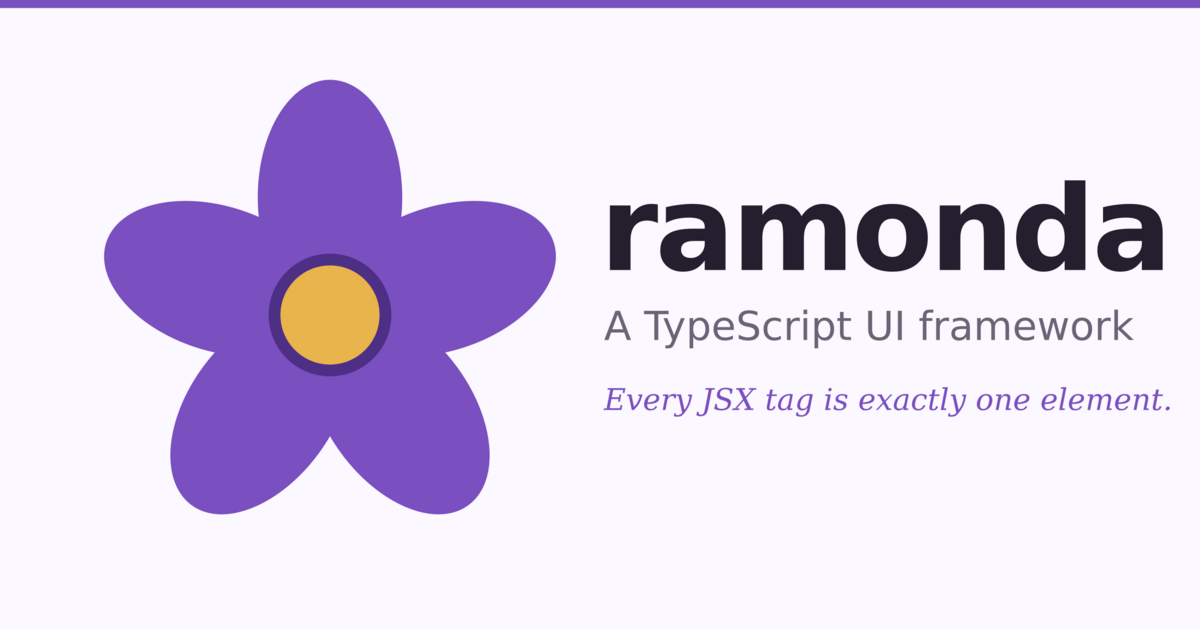
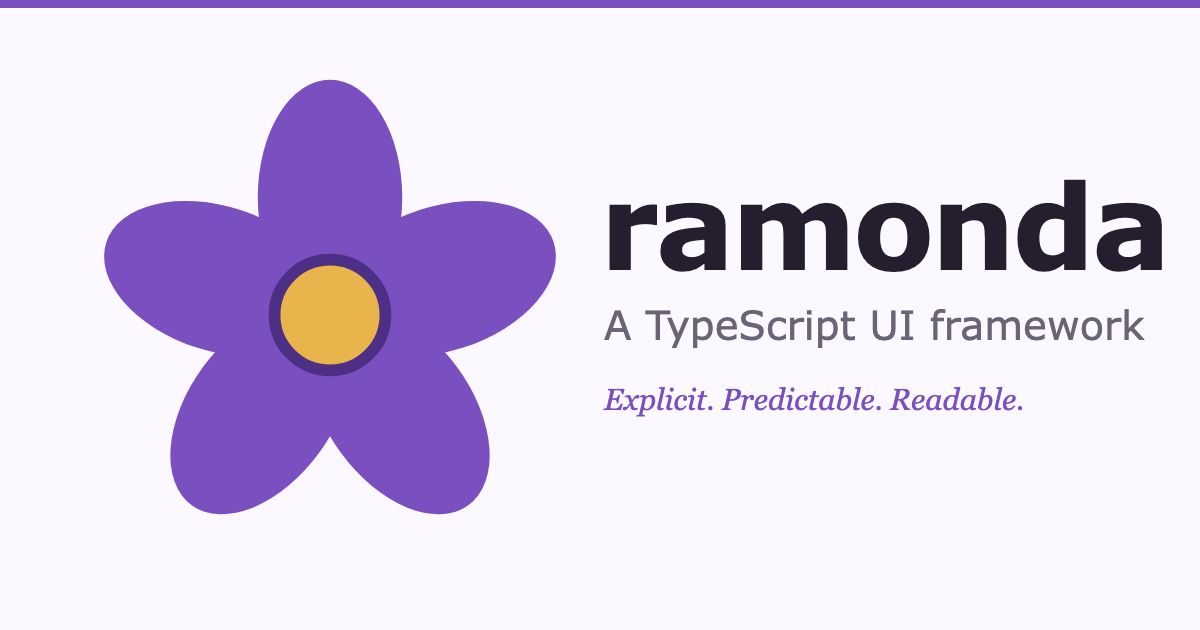
docs: the social card, and every sentence still arguing from the retired rule
The card first, because it is the one nothing could have caught. `og.png` is what
`og:image` and `twitter:image` point at on all 78 pages, and it said **Every JSX
tag is exactly one element** — the retired rule, as the preview on every shared
link. An image is not text anybody greps, and the tagline was written in exactly
one place.

It now reads `Explicit. Predictable. Readable.`, which with the wordmark and the
subheading above it is the site's own description without saying "UI framework"
twice. Two gates so it cannot drift again:

  build-theme.mjs   the card's sentence must equal `DESCRIPTION` in entry-server.tsx
  build-og-png.mjs  og.png must have been rendered from the current og.svg

The second is new, and so is the png renderer behind it — Chromium through
`@playwright/test`, which this repo already has and whose browser is already
downloaded. It stamps the svg's hash beside the png rather than diffing an image;
that answers "was this made from this", which is the question that went wrong.
Both planted and both caught.

**And then the sentences.** Sixteen places still argued from the rule, across four
published packages and the docs. One reached users: the fragment error refused
`<>…</>` because it `would make one tag produce several elements`, which is now
something a component does routinely. Each was rewritten to the reason that
survives rather than deleted — a fragment and a function have no state, no
[…]

diff --git a/packages/core/src/vdom/h.ts b/packages/core/src/vdom/h.ts
@@ -234,17 +234,18 @@ function regionOwner(index: number, originId: number): string {
 
 /**
  * Builds a vnode from a JSX tag. Exactly two kinds belong there: an intrinsic
- * tag, and a class component — each of which becomes exactly ONE element. That
- * one-to-one rule is what makes a Ramonda tree readable: the JSX is the DOM.
+ * tag, which is one element, and a class component, which renders whatever its
+ * `render()` returns — one element, several, or none.
  *
  * A function is accepted only so it can be reported (RMD011) instead of quietly
  * behaving like a component that has no element. TypeScript already rejects it
  * at the call site — see JSX.ElementType in global.ts.
  *
- * The return is one `VNode`, which is the 1-1 rule stated in the type: every tag
- * the types accept builds exactly one element. Declaring the wider `RamondaNode`
- * described only the unreachable branch below, and made callers that build vnodes
- * by hand — a generated route table, a table cell — cast the result back.
+ * The return is one `VNode` per tag, and that is a claim about the vnode rather
+ * than about the DOM: a component is one node here and as many elements as it
+ * renders on the page. Declaring the wider `RamondaNode` described only the
+ * unreachable branch below, and made callers that build vnodes by hand — a
+ * generated route table, a table cell — cast the result back.
  */
 /**
  * A component class with its own props, called directly rather than through JSX.
@@ -289,7 +290,7 @@ export function __h(
     return createRamonda(upperCaseName, attributes, parsedChildren);
   }
 
-  // 2. Classes (components) — each becomes exactly one element.
+  // 2. Classes (components) — each becomes one vnode; what it draws is its render's business.
   //
   // The nullish check is load-bearing, not defensive. `<Thing />` where the import failed arrives
   // here as `undefined`, which is the FIRST case RMD044 names — and reading `.__isComponent` off it
@@ -308,10 +309,11 @@ export function __h(
 
   // 3. A function in tag position — not a supported kind of component.
   //
-  // A tag that is not an element defeats the reason the 1-1 rule exists: that
-  // the DOM is readable off the JSX. Report it (RMD011) and point at the real
-  // answer — a Hook for state/lifecycle without an element, or `{fn()}` if
-  // vnodes were all that was wanted.
+  // A function has nothing to construct: no state, no lifecycle, and no identity
+  // the diff can hold. A component covers every case it does and several it
+  // cannot, so this is refused rather than supported. Report it (RMD011) and
+  // point at the real answer — a Hook for state/lifecycle without an element, or
+  // `{fn()}` if vnodes were all that was wanted.
   //
   // Call it anyway. TS rejects a NAMED function in tag position, so `<sideBar />` never gets here
   // from typed code — but `<>…</>` does: the compiler does not typecheck a fragment's parameter at
@@ -321,9 +323,8 @@ export function __h(
   if (typeof name === "function") {
     try {
       if (__DEV__) reportFunctionTag(name.name);
-      // Cast because this branch is the one place the 1-1 rule is already broken:
-      // the function returns whatever it likes. It is unreachable from typed code,
-      // and it has just been reported.
+      // Cast because a function returns whatever it likes, and nothing here can
+      // narrow that. Unreachable from typed code, and already reported.
       return (name as UnsupportedTagFn)(attributes as never) as VNode;
     } catch (e) {
       if (__DEV__) {

diff --git a/packages/core/src/base/AsyncLoad.ts b/packages/core/src/base/AsyncLoad.ts
@@ -209,11 +209,11 @@ type LoadedComponent = ((loadedProps?: unknown) => RamondaNode) | undefined;
  * />
  * ```
  *
- * An ordinary class component with the default `<ramonda-host>`, so it is
- * exactly one element like every other tag. The loaded module renders INSIDE
- * that host, and its own props are passed as `loadedProps` rather than being
- * mixed into this tag's attributes — those two sets of props belong to different
- * components and must not share a namespace.
+ * An ordinary class component. Once the module has loaded it renders that
+ * module and nothing around it, so nothing of this tag survives in the DOM. The
+ * module's own props are passed as `loadedProps` rather than mixed into this
+ * tag's attributes — those two sets of props belong to different components and
+ * must not share a namespace.
  *
  * `errorFallback` may be a function, and then it receives `{ error, retry,
  * attempt }` — the same shape as `ErrorBoundary`'s fallback. There is no

diff --git a/packages/core/src/debug/jsxRules.ts b/packages/core/src/debug/jsxRules.ts
@@ -4,11 +4,12 @@ import { diagnose } from "./diagnostics";
 /**
  * DEV-only: what is allowed to stand in a JSX tag.
  *
- * A Ramonda tag is always exactly one element — that rule is what lets you read
- * the DOM off the JSX. TypeScript already refuses a function there (see
- * JSX.ElementType in global.ts), so this only fires when types were bypassed or
- * the build has none. It exists so the pattern is enforced at runtime too,
- * rather than a function quietly behaving like a component with no element.
+ * A tag is an intrinsic element or a component — something with state, a
+ * lifecycle and an identity the diff can hold. A function is none of those.
+ * TypeScript already refuses one there (see JSX.ElementType in global.ts), so
+ * this only fires when types were bypassed or the build has none. It exists so
+ * the rule holds at runtime too, rather than a function quietly behaving like a
+ * component that has nothing.
  */
 
 /**

diff --git a/packages/query/src/context.ts b/packages/query/src/context.ts
@@ -61,11 +61,11 @@ export interface QueryClientProviderProps {
  * }
  * ```
  *
- * **A hook, not a component**, for the reason every provider here is a hook: a
- * component is exactly one element, so `<QueryClientProvider>{children}</…>`
- * would cost a wrapper node that means nothing — and inside a `<tr>` or a
- * `<select>` that node is illegal HTML. `createContext` returns hooks for the same
- * reason.
+ * **A hook, not a component**, for the reason every provider here is a hook: it
+ * puts nothing on the page. Written as `<QueryClientProvider>{children}</…>` it
+ * would be a tag that draws nothing, and a reader would have to know it was there
+ * to know what it covers. A hook says that in the component that owns it.
+ * `createContext` returns hooks for the same reason.
  */
 export class QueryClientProvider extends Hook<QueryClientProviderProps | undefined> {
   /**

diff --git a/packages/router/src/Router.tsx b/packages/router/src/Router.tsx
@@ -110,11 +110,10 @@ let liveRouters = 0;
  *   }
  *
  * **A hook, not a component.** It was `<Router>{children}</Router>` until
- * 2026-07-17 — a pass-through wrapper, which is exactly what the framework's own
- * rule forbids: every component is exactly one element, so a component that only
- * forwards its children still costs a `<ramonda-host>` that means nothing. (The
- * same reasoning is why `createContext` returns hooks.) A hook owns the state and
- * adds no node.
+ * 2026-07-17 — a tag that drew nothing, so a reader had to know it was there to
+ * know what it covered. The router owns state for a whole subtree and puts
+ * nothing on the page, which is what a hook is for. (The same reasoning is why
+ * `createContext` returns hooks.)
  *
  * The state is per-instance rather than a module global so that concurrent server
  * renders cannot share it. See `store.ts`.

diff --git a/packages/core/src/base/Context.ts b/packages/core/src/base/Context.ts
@@ -94,9 +94,10 @@ export interface ContextOptions {
  * only wakes consumers of THAT property (true fine-grained). No whole-object
  * State, no sync effect — which also keeps it clean for SSR/hydration.
  *
- * The Provider is a hook rather than a component because the framework is 1-1
- * (every JSX component maps to exactly one HTML element, no fragments), so a
- * pass-through wrapper component is not allowed.
+ * The Provider is a hook rather than a component because it puts nothing on the
+ * page: it holds state for a subtree and has no element of its own, which is what
+ * a hook is for. Written as a component it would be a tag that draws nothing, and
+ * a reader would have to know it was there to know where the scope begins.
  */
 export function createContext<T extends object>(
   defaultValue: T,

diff --git a/apps/docs/src/demos/ListDemo.tsx b/apps/docs/src/demos/ListDemo.tsx
@@ -31,10 +31,10 @@ class TaskRow extends Component<{ item: Task }> {
   }
 }
 
-// `list()` is a FUNCTION in an expression slot, not a component — Ramonda is
-// 1-1, so a <List> tag would have to BE an element and could not put N siblings
-// into the parent. It returns a descriptor the diff understands; the component
-// keeps its single host.
+// `list()` is a FUNCTION in an expression slot, not a component — a list has no
+// state, no lifecycle and nothing of its own to be, so there is nothing for a
+// <List> tag to name. It returns a descriptor the diff understands, and being an
+// expression is what lets it sit anywhere one can.
 //
 // Note what is NOT here: a key. Identity comes from the item itself (its object
 // reference), so there is nothing to write and nothing to get wrong. A wrong key

diff --git a/packages/core/src/types/commonTypes.ts b/packages/core/src/types/commonTypes.ts
@@ -127,7 +127,8 @@ type RefusedEventCasing = {
  * `concepts/jsx` states, and it is complete. Nothing here is reserved: `http-equiv` and
  * `accept-charset` are writable exactly as HTML spells them, and `value` and `checked` are the
  * attributes a `default*` spelling would be standing in for. Aliasing them would turn a two-name
- * exception into a list that grows forever, and the framework's own rule is that the JSX is the DOM.
+ * exception into a list that grows forever, against a framework whose rule is that what you write
+ * is the attribute the element actually has.
  */
 interface RefusedNames {
   innerHTML: "write the markup as children — `innerHTML` is not an attribute";

diff --git a/packages/core/src/jsx-runtime.ts b/packages/core/src/jsx-runtime.ts
@@ -83,7 +83,8 @@ export function jsxs(type: unknown, props: Props | null, key?: string | number):
 export function Fragment(): never {
   if (__DEV__) reportFunctionTag("Fragment");
   throw new Error(
-    "Ramonda has no fragments: `<>…</>` would make one tag produce several elements. " +
-      "Wrap them in an element, or write `{[a, b]}` if you only wanted the vnodes.",
+    "Ramonda has no fragments: `<>…</>` has no state, no lifecycle and no identity the diff can " +
+      "hold, and a component covers every case it would. Use one, or write `{[a, b]}` if you only " +
+      "wanted the vnodes.",
   );
 }

diff --git a/packages/testing-library/src/renderHook.ts b/packages/testing-library/src/renderHook.ts
@@ -83,8 +83,8 @@ export function renderHook<T, O = undefined>(
     instance = this.use(hook as never, (self: HookHost) => self.currentProps as never) as T;
 
     render(): RamondaNode {
-      // A hook has no DOM of its own; the host still needs one element, because
-      // every component in Ramonda is exactly one element.
+      // A hook has no DOM of its own, so the host renders a marker element — the
+      // thing `render` returns a container around, and the thing cleanup removes.
       return __h("div", { "data-ramonda-hook-host": "" }) as RamondaNode;
     }
   }

diff --git a/.changeset/a-rule-that-is-gone-stops-being-taught.md b/.changeset/a-rule-that-is-gone-stops-being-taught.md
@@ -1,0 +1,29 @@
+---
+"@ramonda/core": patch
+"@ramonda/query": patch
+"@ramonda/router": patch
+"@ramonda/testing-library": patch
+---
+
+The retired one-element rule stops being taught, including in a message readers see
+
+`Every JSX tag is exactly one element` was the framework's headline rule and is not
+true any more — a component renders one element, several, or none. The rule was
+retired; the sentences arguing FROM it were not, and they were spread across four
+packages.
+
+The one that reached users: the fragment error said `<>…</>` is refused because it
+`would make one tag produce several elements`. That is now something a component
+does routinely, so the message argued from a rule the framework no longer has. It
+gives the reason that still holds — a fragment has no state, no lifecycle and no
+identity the diff can hold, and a component covers every case it would.
+
+The rest were comments and one reference page, each rewritten to the reason that
+survives rather than deleted: `RMD011` and its DEV guard, `__h`'s contract (one
+vnode per tag, which is a claim about the vnode and not about the DOM), why
+`createContext`, `QueryClientProvider` and `Router` are hooks (they put nothing on
+the page — not that a wrapper was forbidden), and why attribute names are not
+aliased.
+
+Two comments also described `<ramonda-host>`, which no longer exists anywhere in
+the source. `AsyncLoad` renders the loaded module and nothing around it.

diff --git a/packages/core/DIAGNOSTICS.md b/packages/core/DIAGNOSTICS.md
@@ -500,10 +500,10 @@ roadmap.
 
 ### RMD011 — A function was used as a JSX tag
 
-Every Ramonda tag is exactly one element. That is what lets you read the DOM
-structure straight off the JSX, and it is worth protecting: a function in the tag
-position would be a tag that is not an element, and the invariant would be gone
-on sight.
+A tag names something the framework can hold on to: an intrinsic element, or a
+component with state, a lifecycle and an identity the diff can match across
+renders. A function has none of those. It would look like a component and be
+none of one, and a component covers every case it would.
 
 `h` does call the function (rejecting it outright would only break the page in a
 build that already has no types), but it reports first, and the message points at
